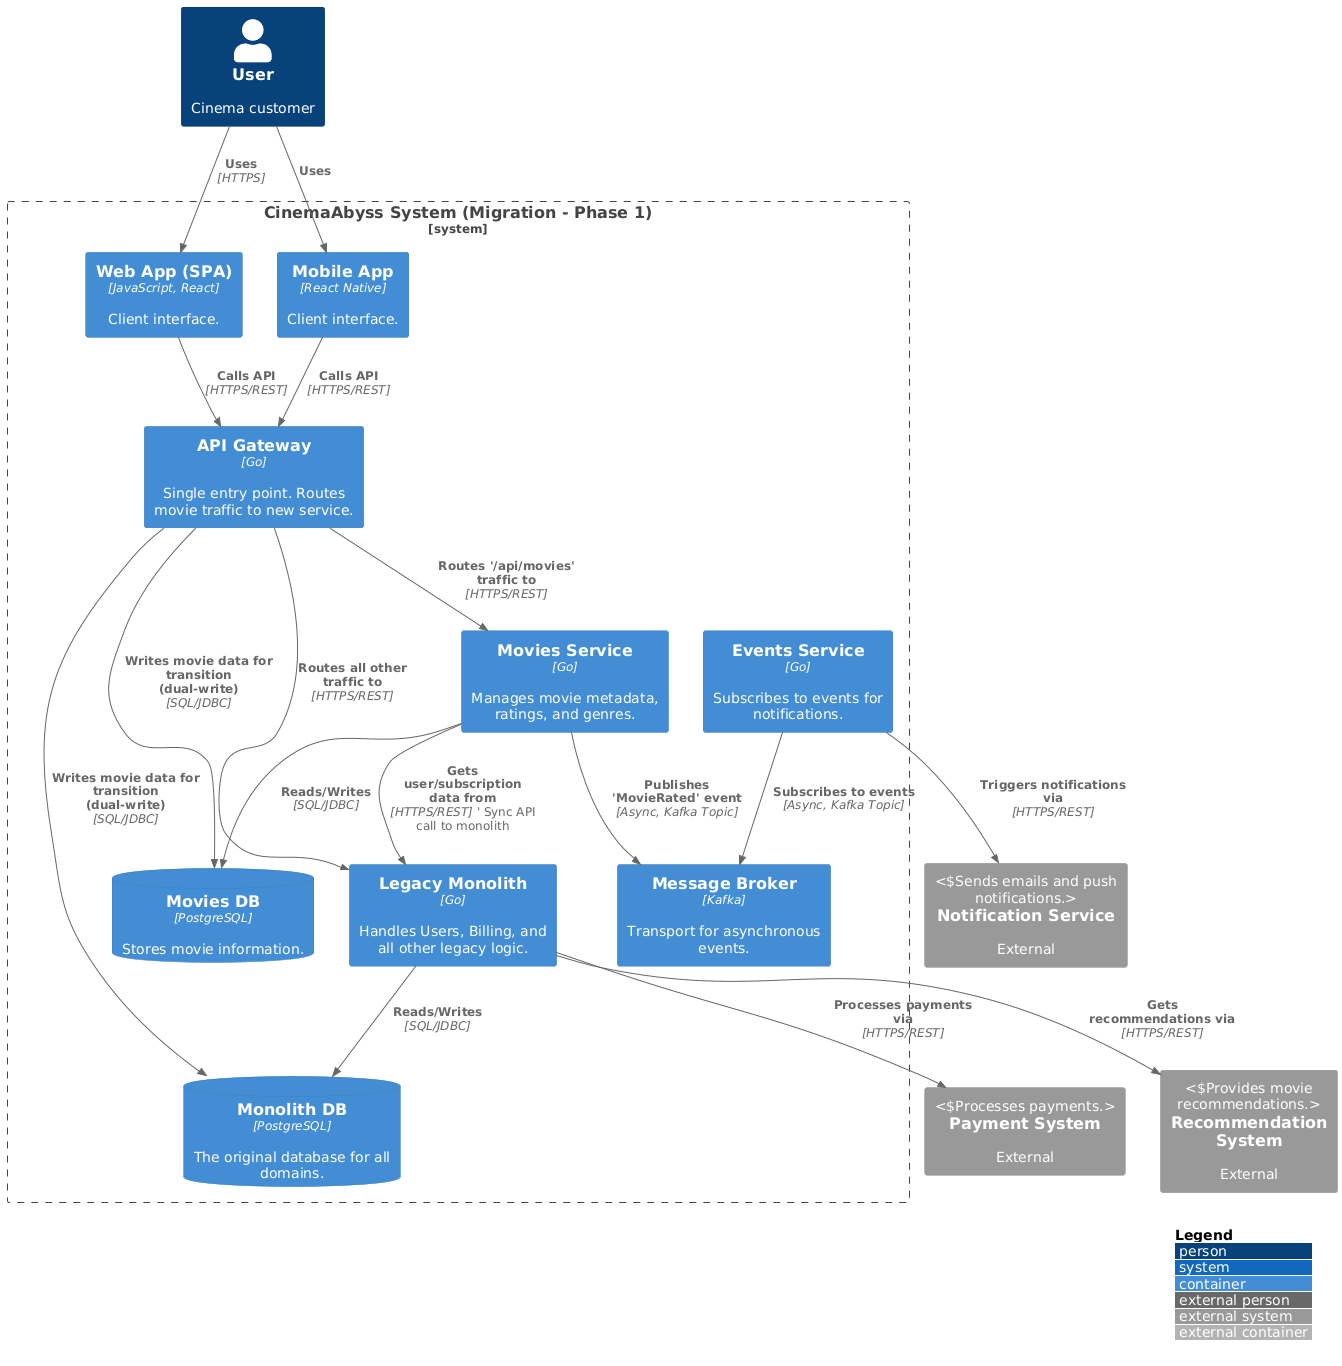
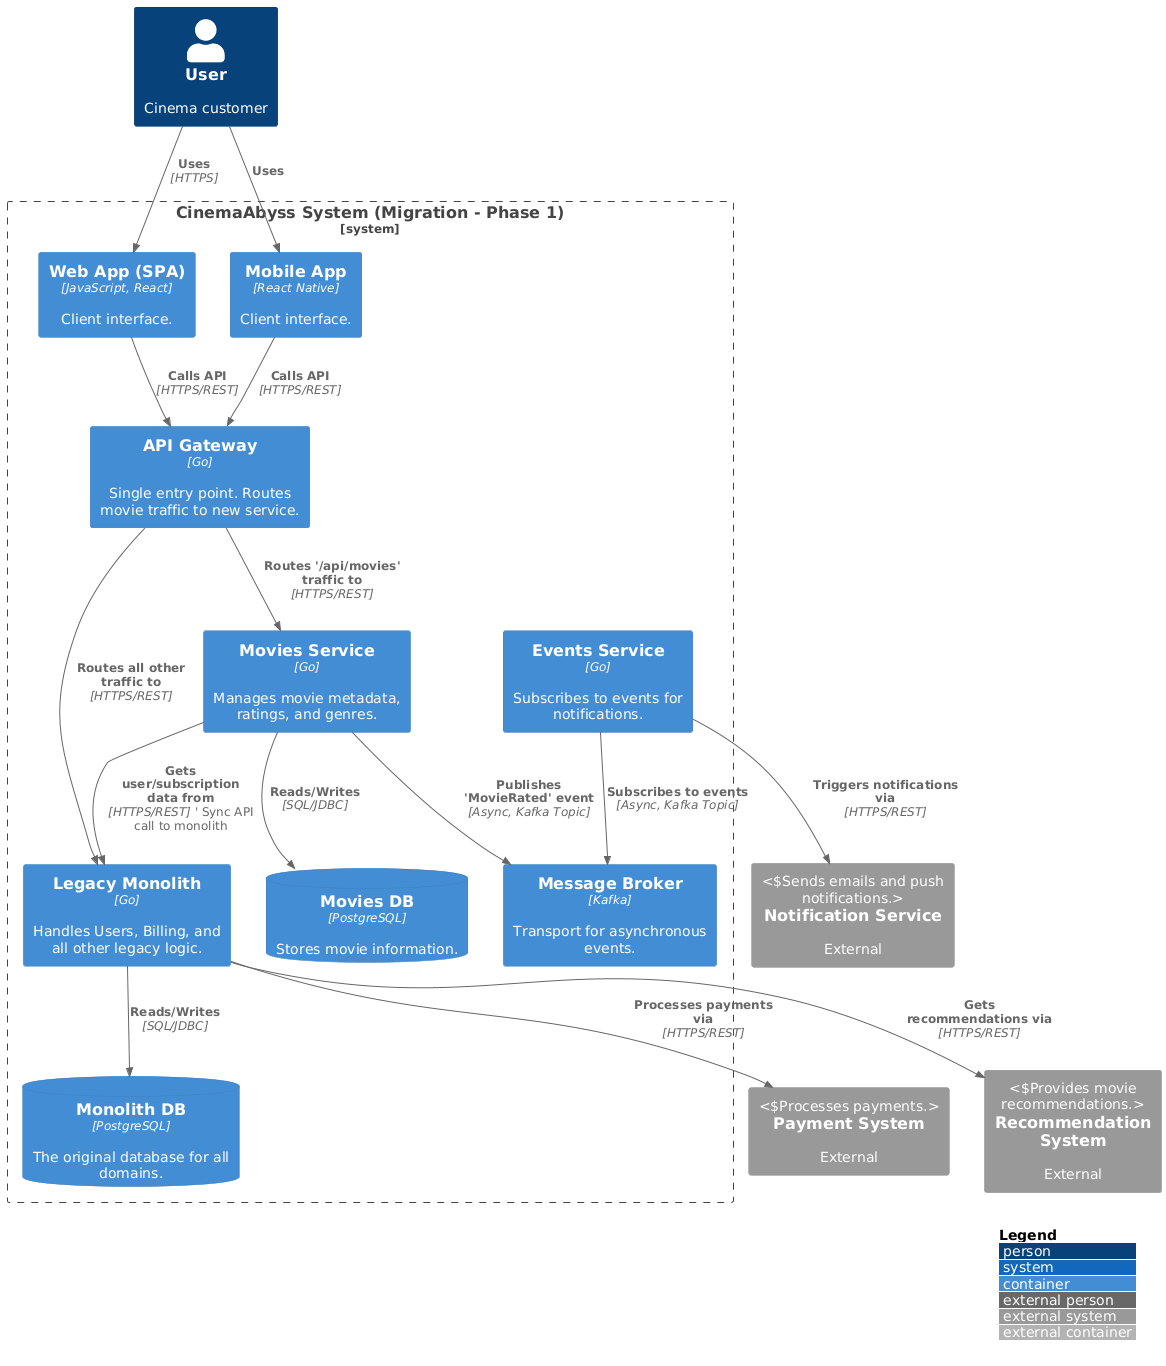
docs: update project documentation
- Update Project_template.md with Makefile usage instructions.
- Add ADR for the hybrid architecture approach.
- Link to new test and Kafka UI artifacts.

Changed region(s): [[0.0, 0.0, 0.988, 0.9839]]

diff --git a/Project_template.md b/Project_template.md
@@ -45,7 +45,12 @@
    ```bash
    curl http://localhost:8000/api/movies
    ```
-- Протестируйте постепенный переход, изменив переменную окружения MOVIES_MIGRATION_PERCENT в файле docker-compose.yml.
+- Протестируйте постепенный переход, изменив переменную окружения MOVIES_MIGRATION_PERCENT в файле docker-compose.yml. 
+
+Для этого можно воспользоваться командой:
+  ```bash
+  make test-migration
+  ```
 
 ### 2. Kafka
  Вам как архитектуру нужно также проверить гипотезу насколько просто реализовать применение Kafka в данной архитектуре.
@@ -57,7 +62,17 @@
     - Добавьте в docker-compose новый сервис, kafka там уже есть
 
 Необходимые тесты для проверки этого API вызываются при запуске npm run test:local из папки tests/postman 
-Приложите скриншот тестов и скриншот состояния топиков Kafka http://localhost:8090 
+Приложите скриншот тестов и скриншот состояния топиков Kafka http://localhost:8090
+
+Для генерации тестовых событий можно воспользоваться командой:
+  ```bash
+  make publish-events
+  ```
+
+**Артефакты:**
+
+*   [Скриншот Kafka UI](docs/artifacts/img/Screenshot%20From%202025-08-20%2019-54-56.png)
+*   [Скриншот тестов Postman](docs/artifacts/img/Screenshot%20From%202025-08-20%2020-14-05.png)
 
 
 ## Задание 3

diff --git a/docs/adr/001-target-microservice-architecture.md b/docs/adr/001-target-microservice-architecture.md
@@ -33,9 +33,13 @@
 *   Каждый микросервис будет владеть собственной базой данных для обеспечения полной независимости (Database per Service).
 
 ## 3. Визуализация (C4)
+### Контекст 
+--------
+![Контекст](./../diagrams/img/C4_Context.png)
 
-*Исходный код: [c2_containers_final.puml](./../diagrams/c2_containers_final.puml)*
-![Целевая архитектура](./../diagrams/c2_containers_final.puml)
+### Целевая архитектура
+--------
+![Целевая архитектура](./../diagrams/img/C4_Containers_Final.png)
 
 ## 4. Последствия и риски
 

diff --git a/docs/adr/002-hybrid-architecture-approach.md b/docs/adr/002-hybrid-architecture-approach.md
@@ -26,7 +26,12 @@
 
 ## 3. Визуализация (C4)
 
-*Исходный код: [c2_containers.puml](./../diagrams/c2_containers.puml)*![Гибридная архитектура (Этап 1)](./../diagrams/img/C4_Containers_Migration_Phase1.png)
+### Компоненты
+-------
+![Компоненты](./../diagrams/img/C3_Movies_Service_Components.png)
+
+### Гибридная архитектура (Этап 1)
+![Гибридная архитектура (Этап 1)](./../diagrams/img/C4_Containers_Migration_Phase1.png)
 
 ## 4. Последствия и риски
 